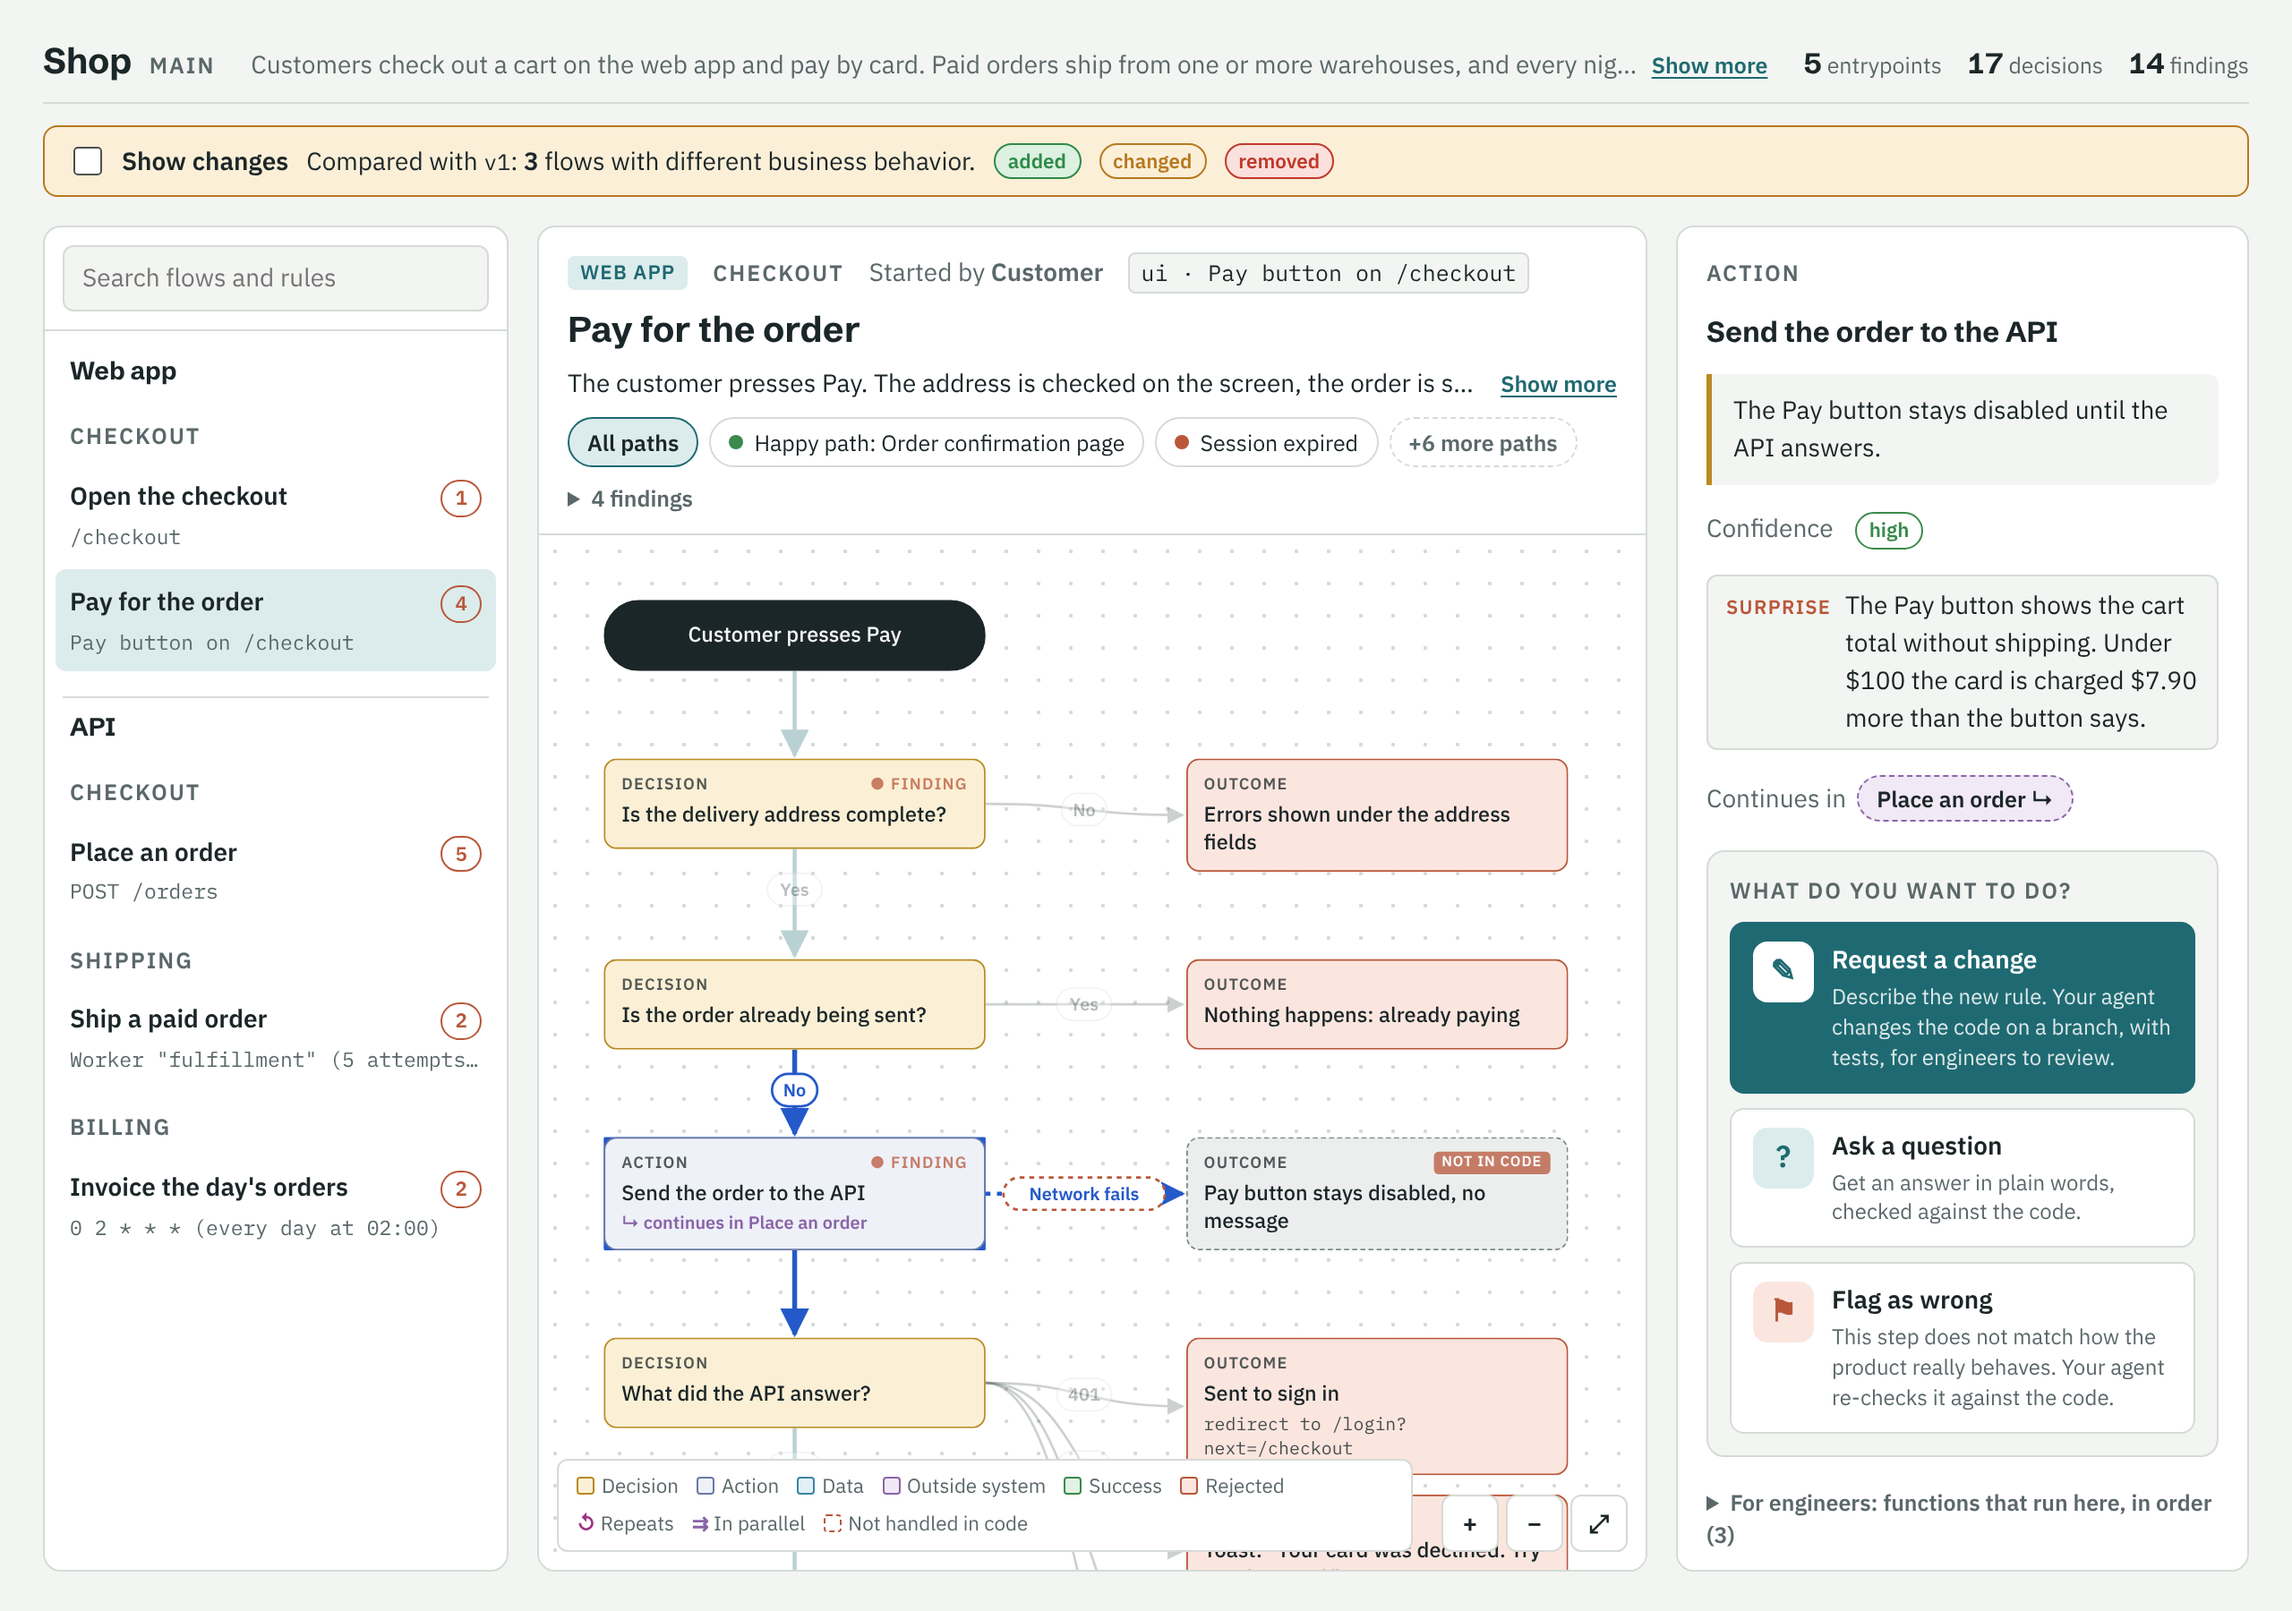
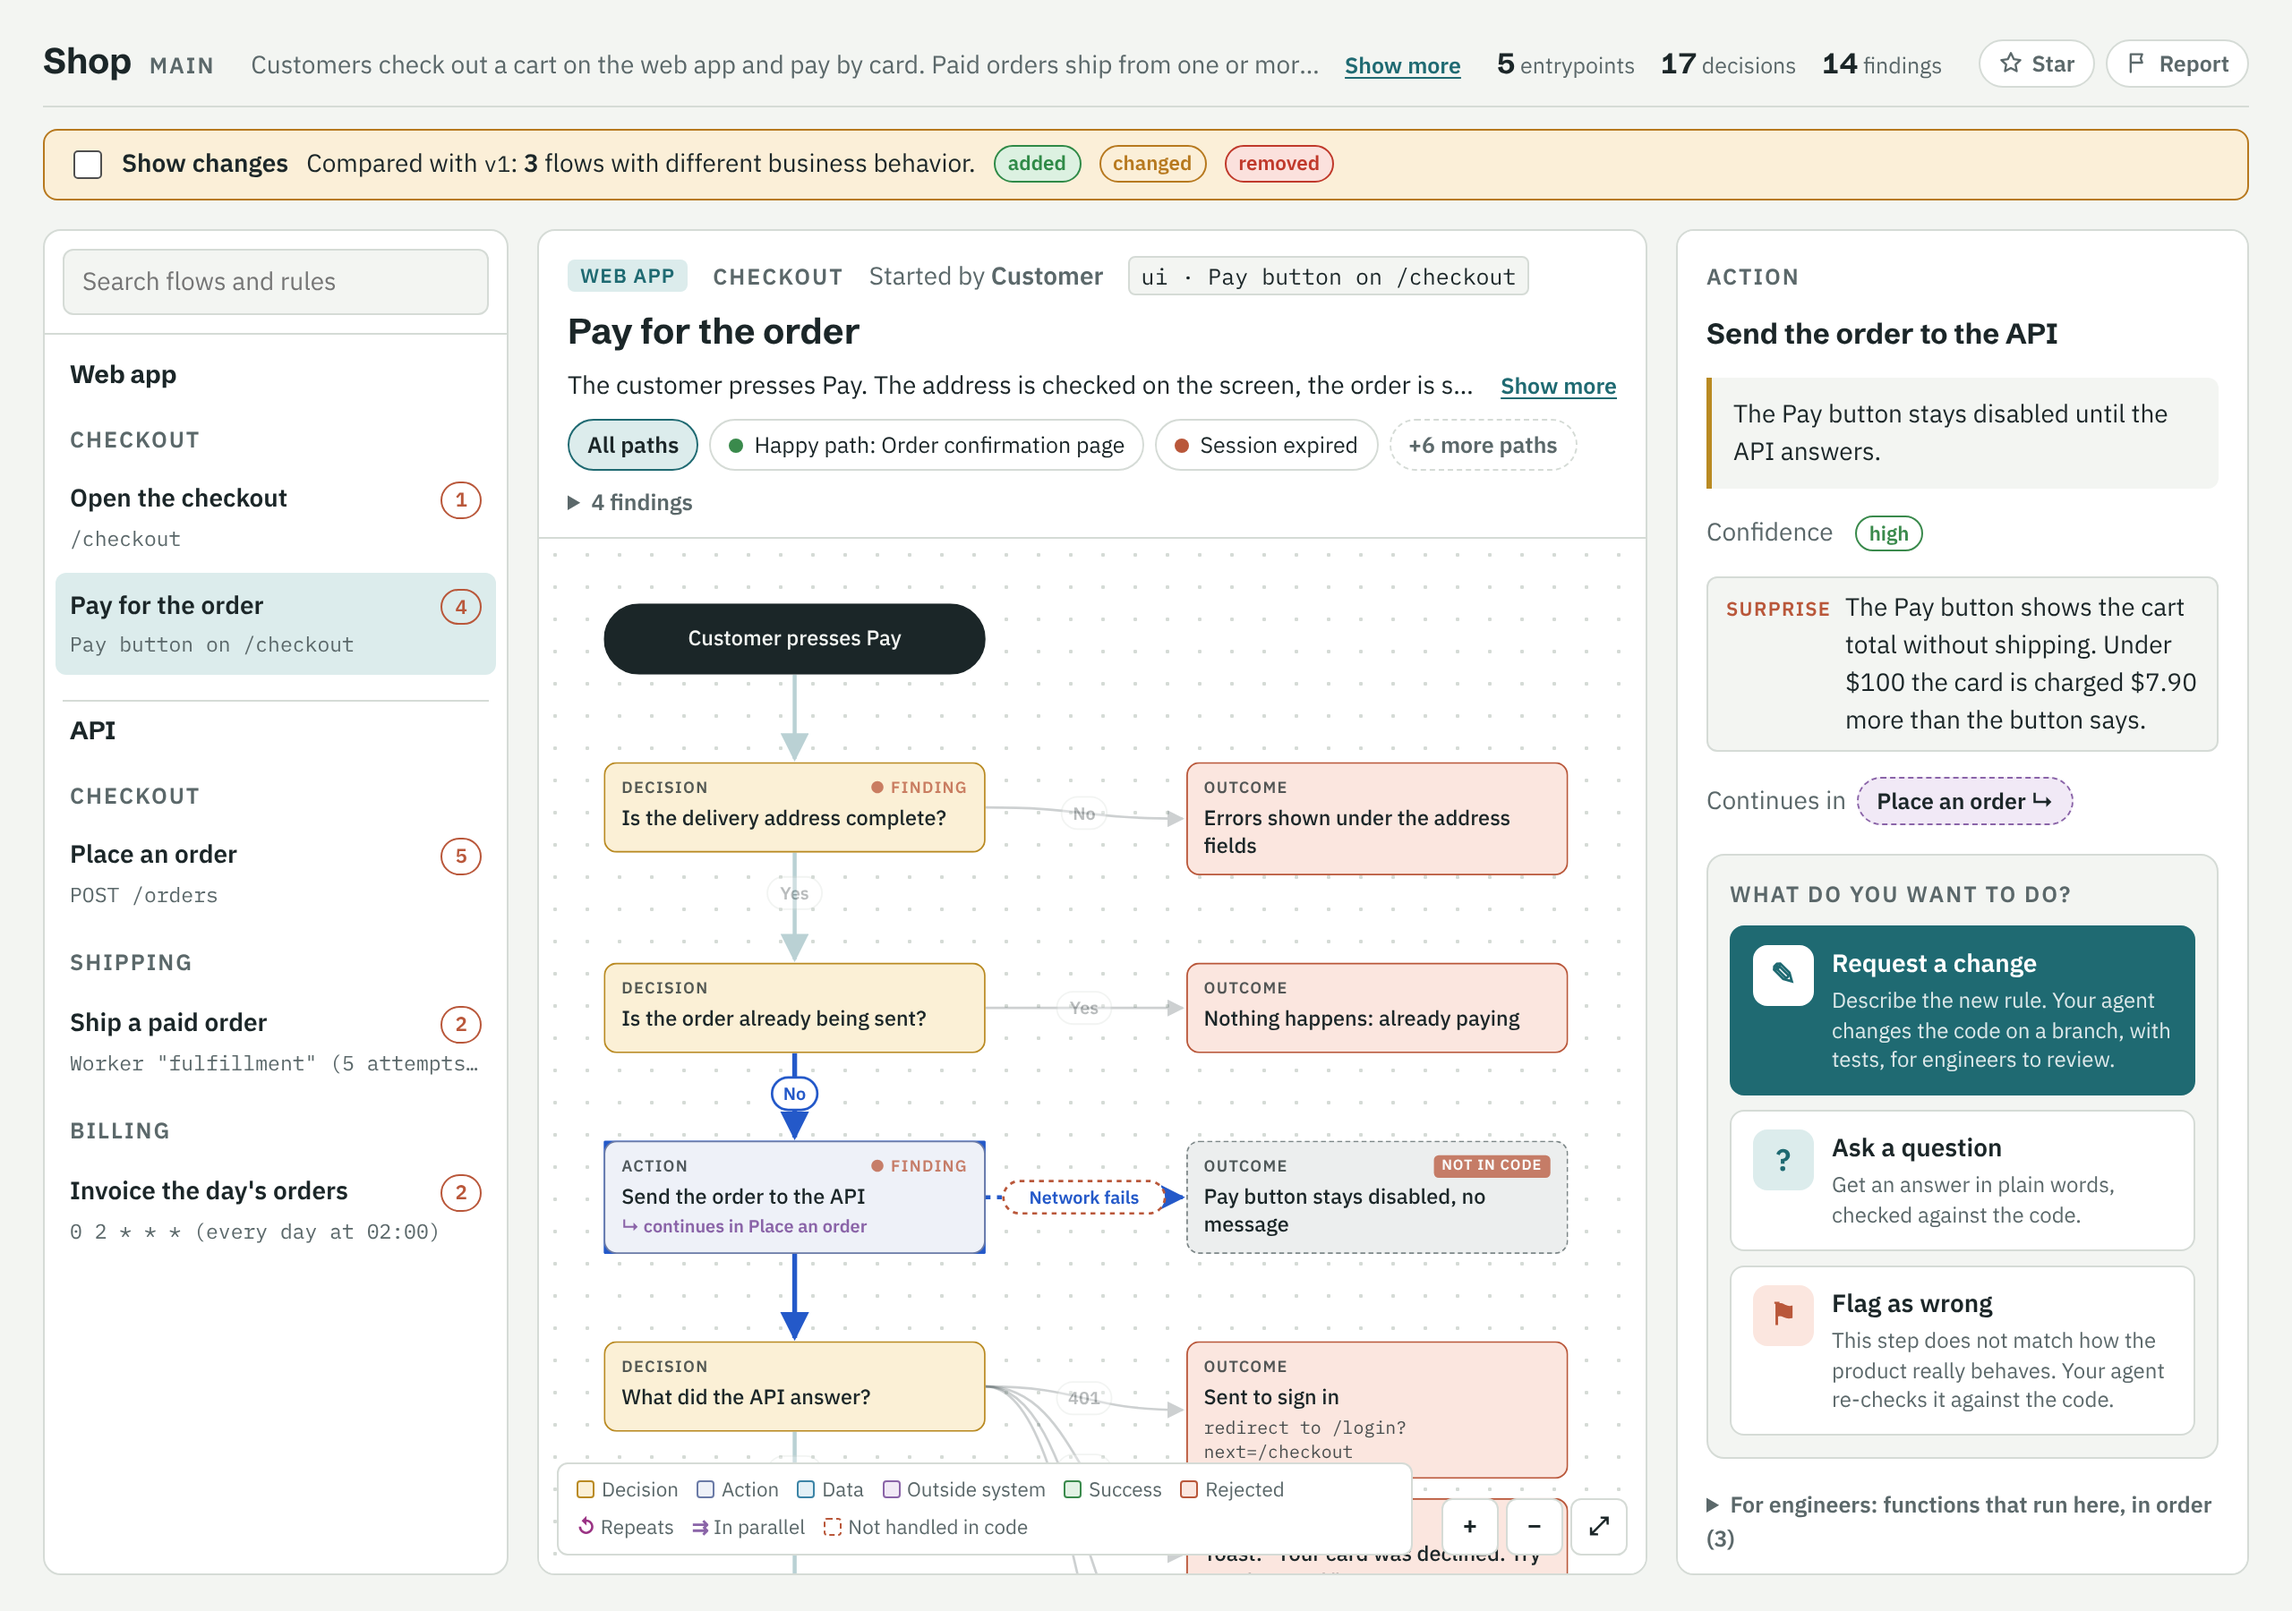
Add Star and Report links to the viewer header
Both open the im-a-pm project on GitHub: the repository page to star it,
and a new issue to report a problem. Nothing from the map is sent.

Claude-Session: https://claude.ai/code/session_01PJiSFCH6Fftah1hFFyPCRG

diff --git a/examples/shop/index.html b/examples/shop/index.html
@@ -99,6 +99,12 @@ button, input, textarea { font: inherit; color: inherit; }
 .about { flex: 1 1 auto; min-width: 0; color: var(--muted); }
 .stats { display: flex; gap: 14px; align-items: baseline; flex: none; font-size: var(--step--1); color: var(--muted); }
 .stats b { font-family: var(--font-display); font-size: var(--step-1); color: var(--ink); font-variant-numeric: tabular-nums; }
+/* Links back to the im-a-pm project on GitHub. */
+.gh { display: flex; gap: 6px; flex: none; align-self: center; }
+.gh a { display: inline-flex; align-items: center; gap: 5px; padding: 3px 10px; border: 1px solid var(--line); border-radius: 999px; font-size: var(--step--1); font-weight: 600; color: var(--muted); text-decoration: none; background: var(--surface); }
+.gh a:hover { color: var(--ink); border-color: var(--muted); }
+.gh a.star:hover svg { fill: #d4a017; stroke: #d4a017; }
+.gh svg { width: 14px; height: 14px; fill: none; stroke: currentColor; stroke-width: 2; stroke-linejoin: round; stroke-linecap: round; }
 /* One-line text that expands on click. */
 .clampbox { display: flex; align-items: baseline; gap: 8px; min-width: 0; }
 .clampbox .clamp-t { min-width: 0; white-space: nowrap; overflow: hidden; text-overflow: ellipsis; }
@@ -779,13 +785,19 @@ const PAYLOAD = {"head":{"version":1,"app":{"name":"Shop","summary":"Customers c
   }
 
   // ------------------------------------------------------------ header & index
+  // The im-a-pm project itself, for the Star and Report links in the header.
+  const PROJECT = 'https://github.com/danilojpferreira/im-a-pm';
   function drawTop() {
     const decisions = head.flows.reduce((s, f) => s + f.nodes.filter((n) => n.type === 'decision').length, 0);
     const findings = head.flows.reduce((s, f) => s + (f.findings || []).length, 0);
     // One line: name, version, description (click to read it all), counts.
     $('top').innerHTML = `<div class="brand"><h1>${esc(head.app.name)}</h1><span class="eyebrow">${esc(head.app.ref || '')}${head.app.commit ? ' @ ' + esc(head.app.commit.slice(0, 7)) : ''}</span></div>
       ${head.app.summary ? clampHtml('about', 'about', head.app.summary, state.aboutOpen) : '<span class="about"></span>'}
-      <div class="stats"><span><b>${head.flows.length}</b> entrypoints</span><span><b>${decisions}</b> decisions</span><span><b>${findings}</b> findings</span></div>`;
+      <div class="stats"><span><b>${head.flows.length}</b> entrypoints</span><span><b>${decisions}</b> decisions</span><span><b>${findings}</b> findings</span></div>
+      <nav class="gh" aria-label="im-a-pm on GitHub">
+        <a class="star" href="${PROJECT}" target="_blank" rel="noopener" title="Like im-a-pm? Give it a star on GitHub"><svg viewBox="0 0 24 24" aria-hidden="true"><path d="M12 2.8l2.8 5.8 6.3.9-4.6 4.4 1.1 6.3L12 17.2l-5.6 3 1.1-6.3L2.9 9.5l6.3-.9z"/></svg>Star</a>
+        <a href="${PROJECT}/issues/new" target="_blank" rel="noopener" title="Something wrong with im-a-pm? Open an issue on GitHub"><svg viewBox="0 0 24 24" aria-hidden="true"><path d="M5 21V4h11l-1.5 4L16 12H5"/></svg>Report</a>
+      </nav>`;
     clampable($('about'), () => { state.aboutOpen = !state.aboutOpen; drawTop(); });
     const stale = head.flows.flatMap((f) => f.nodes.filter((n) => n.stale).map((n) => f.title));
     if (stale.length) {

diff --git a/examples/video-api/index.html b/examples/video-api/index.html
@@ -99,6 +99,12 @@ button, input, textarea { font: inherit; color: inherit; }
 .about { flex: 1 1 auto; min-width: 0; color: var(--muted); }
 .stats { display: flex; gap: 14px; align-items: baseline; flex: none; font-size: var(--step--1); color: var(--muted); }
 .stats b { font-family: var(--font-display); font-size: var(--step-1); color: var(--ink); font-variant-numeric: tabular-nums; }
+/* Links back to the im-a-pm project on GitHub. */
+.gh { display: flex; gap: 6px; flex: none; align-self: center; }
+.gh a { display: inline-flex; align-items: center; gap: 5px; padding: 3px 10px; border: 1px solid var(--line); border-radius: 999px; font-size: var(--step--1); font-weight: 600; color: var(--muted); text-decoration: none; background: var(--surface); }
+.gh a:hover { color: var(--ink); border-color: var(--muted); }
+.gh a.star:hover svg { fill: #d4a017; stroke: #d4a017; }
+.gh svg { width: 14px; height: 14px; fill: none; stroke: currentColor; stroke-width: 2; stroke-linejoin: round; stroke-linecap: round; }
 /* One-line text that expands on click. */
 .clampbox { display: flex; align-items: baseline; gap: 8px; min-width: 0; }
 .clampbox .clamp-t { min-width: 0; white-space: nowrap; overflow: hidden; text-overflow: ellipsis; }
@@ -779,13 +785,19 @@ const PAYLOAD = {"head":{"version":1,"app":{"name":"Video API","summary":"Editor
   }
 
   // ------------------------------------------------------------ header & index
+  // The im-a-pm project itself, for the Star and Report links in the header.
+  const PROJECT = 'https://github.com/danilojpferreira/im-a-pm';
   function drawTop() {
     const decisions = head.flows.reduce((s, f) => s + f.nodes.filter((n) => n.type === 'decision').length, 0);
     const findings = head.flows.reduce((s, f) => s + (f.findings || []).length, 0);
     // One line: name, version, description (click to read it all), counts.
     $('top').innerHTML = `<div class="brand"><h1>${esc(head.app.name)}</h1><span class="eyebrow">${esc(head.app.ref || '')}${head.app.commit ? ' @ ' + esc(head.app.commit.slice(0, 7)) : ''}</span></div>
       ${head.app.summary ? clampHtml('about', 'about', head.app.summary, state.aboutOpen) : '<span class="about"></span>'}
-      <div class="stats"><span><b>${head.flows.length}</b> entrypoints</span><span><b>${decisions}</b> decisions</span><span><b>${findings}</b> findings</span></div>`;
+      <div class="stats"><span><b>${head.flows.length}</b> entrypoints</span><span><b>${decisions}</b> decisions</span><span><b>${findings}</b> findings</span></div>
+      <nav class="gh" aria-label="im-a-pm on GitHub">
+        <a class="star" href="${PROJECT}" target="_blank" rel="noopener" title="Like im-a-pm? Give it a star on GitHub"><svg viewBox="0 0 24 24" aria-hidden="true"><path d="M12 2.8l2.8 5.8 6.3.9-4.6 4.4 1.1 6.3L12 17.2l-5.6 3 1.1-6.3L2.9 9.5l6.3-.9z"/></svg>Star</a>
+        <a href="${PROJECT}/issues/new" target="_blank" rel="noopener" title="Something wrong with im-a-pm? Open an issue on GitHub"><svg viewBox="0 0 24 24" aria-hidden="true"><path d="M5 21V4h11l-1.5 4L16 12H5"/></svg>Report</a>
+      </nav>`;
     clampable($('about'), () => { state.aboutOpen = !state.aboutOpen; drawTop(); });
     const stale = head.flows.flatMap((f) => f.nodes.filter((n) => n.stale).map((n) => f.title));
     if (stale.length) {

diff --git a/skills/im-a-pm/assets/viewer.html b/skills/im-a-pm/assets/viewer.html
@@ -92,6 +92,12 @@ button, input, textarea { font: inherit; color: inherit; }
 .about { flex: 1 1 auto; min-width: 0; color: var(--muted); }
 .stats { display: flex; gap: 14px; align-items: baseline; flex: none; font-size: var(--step--1); color: var(--muted); }
 .stats b { font-family: var(--font-display); font-size: var(--step-1); color: var(--ink); font-variant-numeric: tabular-nums; }
+/* Links back to the im-a-pm project on GitHub. */
+.gh { display: flex; gap: 6px; flex: none; align-self: center; }
+.gh a { display: inline-flex; align-items: center; gap: 5px; padding: 3px 10px; border: 1px solid var(--line); border-radius: 999px; font-size: var(--step--1); font-weight: 600; color: var(--muted); text-decoration: none; background: var(--surface); }
+.gh a:hover { color: var(--ink); border-color: var(--muted); }
+.gh a.star:hover svg { fill: #d4a017; stroke: #d4a017; }
+.gh svg { width: 14px; height: 14px; fill: none; stroke: currentColor; stroke-width: 2; stroke-linejoin: round; stroke-linecap: round; }
 /* One-line text that expands on click. */
 .clampbox { display: flex; align-items: baseline; gap: 8px; min-width: 0; }
 .clampbox .clamp-t { min-width: 0; white-space: nowrap; overflow: hidden; text-overflow: ellipsis; }
@@ -772,13 +778,19 @@ const PAYLOAD = /*__IM_A_PM_DATA__*/null;
   }
 
   // ------------------------------------------------------------ header & index
+  // The im-a-pm project itself, for the Star and Report links in the header.
+  const PROJECT = 'https://github.com/danilojpferreira/im-a-pm';
   function drawTop() {
     const decisions = head.flows.reduce((s, f) => s + f.nodes.filter((n) => n.type === 'decision').length, 0);
     const findings = head.flows.reduce((s, f) => s + (f.findings || []).length, 0);
     // One line: name, version, description (click to read it all), counts.
     $('top').innerHTML = `<div class="brand"><h1>${esc(head.app.name)}</h1><span class="eyebrow">${esc(head.app.ref || '')}${head.app.commit ? ' @ ' + esc(head.app.commit.slice(0, 7)) : ''}</span></div>
       ${head.app.summary ? clampHtml('about', 'about', head.app.summary, state.aboutOpen) : '<span class="about"></span>'}
-      <div class="stats"><span><b>${head.flows.length}</b> entrypoints</span><span><b>${decisions}</b> decisions</span><span><b>${findings}</b> findings</span></div>`;
+      <div class="stats"><span><b>${head.flows.length}</b> entrypoints</span><span><b>${decisions}</b> decisions</span><span><b>${findings}</b> findings</span></div>
+      <nav class="gh" aria-label="im-a-pm on GitHub">
+        <a class="star" href="${PROJECT}" target="_blank" rel="noopener" title="Like im-a-pm? Give it a star on GitHub"><svg viewBox="0 0 24 24" aria-hidden="true"><path d="M12 2.8l2.8 5.8 6.3.9-4.6 4.4 1.1 6.3L12 17.2l-5.6 3 1.1-6.3L2.9 9.5l6.3-.9z"/></svg>Star</a>
+        <a href="${PROJECT}/issues/new" target="_blank" rel="noopener" title="Something wrong with im-a-pm? Open an issue on GitHub"><svg viewBox="0 0 24 24" aria-hidden="true"><path d="M5 21V4h11l-1.5 4L16 12H5"/></svg>Report</a>
+      </nav>`;
     clampable($('about'), () => { state.aboutOpen = !state.aboutOpen; drawTop(); });
     const stale = head.flows.flatMap((f) => f.nodes.filter((n) => n.stale).map((n) => f.title));
     if (stale.length) {

diff --git a/README.md b/README.md
@@ -59,9 +59,10 @@ changes, `/im-a-pm sync` re-checks only the steps whose code changed.
 
 These screenshots come from [`examples/shop`](examples/shop), a small order system that uses
 everything below. Every build, sync, change or diff opens the viewer in your browser by itself.
+**Star** and **Report**, top right, open this project on GitHub to star it or open an issue.
 
 Click any step and its arrows, in and out, are highlighted while the rest fade. Click empty space
-to clear the selection. Where a flow forks or branches merge back together, each arrow has its
+to clear the selection.Where a flow forks or branches merge back together, each arrow has its
 own point on the box: the straight-through branch uses the top or bottom, and the others use the
 sides. Arrows run only through the gaps between steps, never across one.
 
